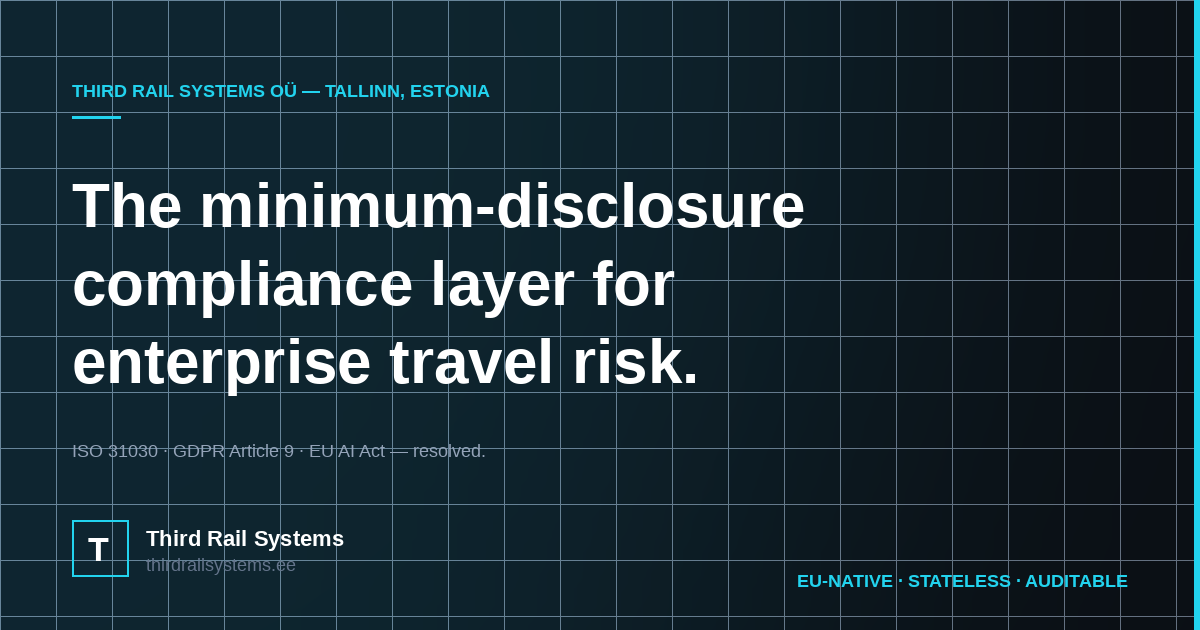
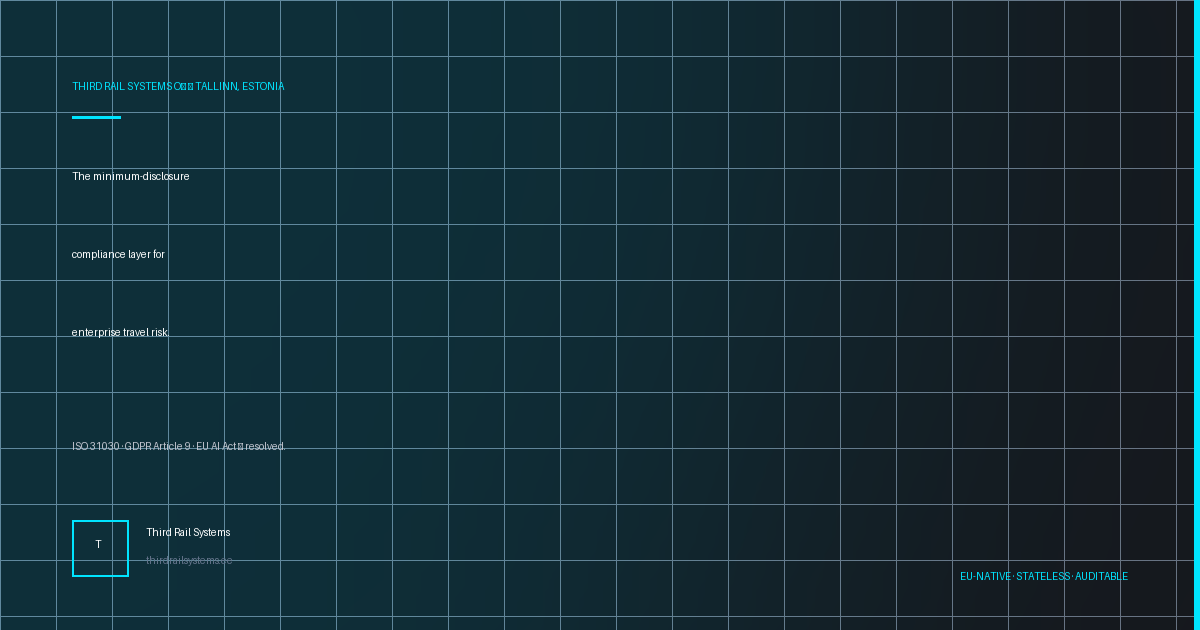
auto-commit for 17750206-c3cd-4aa1-8c43-81caec02e5cf

diff --git a/frontend/src/index.css b/frontend/src/index.css
@@ -4,7 +4,7 @@
 
 body {
     margin: 0;
-    background-color: #0b0f14;
+    background-color: #16181D;
     font-family:
         "Inter", -apple-system, BlinkMacSystemFont, "Segoe UI", "Roboto",
         "Helvetica Neue", Arial, sans-serif;
@@ -20,27 +20,29 @@ code {
 
 @layer base {
     :root {
-        /* Dark-mode first tokens (applied at root so shadcn inherits them) */
-        --background: 220 26% 6%;
+        /* Dark-mode first tokens (applied at root so shadcn inherits them).
+           Brand-guide aligned: Sovereign Slate #16181D background, Cyan Core
+           #00E5FF accent. */
+        --background: 225 14% 11%;
         --foreground: 210 20% 96%;
-        --card: 222 23% 9%;
+        --card: 222 17% 14%;
         --card-foreground: 210 20% 96%;
-        --popover: 222 23% 9%;
+        --popover: 222 17% 14%;
         --popover-foreground: 210 20% 96%;
-        --primary: 189 94% 55%;
+        --primary: 186 100% 50%;
         --primary-foreground: 220 40% 8%;
         --secondary: 217 19% 16%;
         --secondary-foreground: 210 20% 96%;
         --muted: 217 19% 14%;
         --muted-foreground: 215 16% 65%;
-        --accent: 189 94% 55%;
+        --accent: 186 100% 50%;
         --accent-foreground: 220 40% 8%;
         --destructive: 0 72% 51%;
         --destructive-foreground: 210 20% 98%;
         --border: 217 19% 18%;
         --input: 217 19% 18%;
-        --ring: 189 94% 55%;
-        --chart-1: 189 94% 55%;
+        --ring: 186 100% 50%;
+        --chart-1: 186 100% 50%;
         --chart-2: 173 58% 45%;
         --chart-3: 197 37% 40%;
         --chart-4: 43 74% 66%;

diff --git a/frontend/src/App.css b/frontend/src/App.css
@@ -1,7 +1,7 @@
 /* Base app wrapper */
 .App {
   min-height: 100vh;
-  background-color: #0b0f14;
+  background-color: #16181D;
   color: #e5e7eb;
   font-family: "Inter", ui-sans-serif, system-ui, -apple-system, BlinkMacSystemFont,
     "Segoe UI", Roboto, "Helvetica Neue", Arial, sans-serif;
@@ -12,7 +12,7 @@
 
 /* Selection */
 .App ::selection {
-  background-color: rgba(34, 211, 238, 0.25);
+  background-color: rgba(0, 229, 255, 0.25);
   color: #ecfeff;
 }
 
@@ -51,7 +51,6 @@
     linear-gradient(to bottom, rgba(148, 163, 184, 0.06) 1px, transparent 1px);
   background-size: 56px 56px;
 }
-
 /* Monospace accent */
 .mono {
   font-family: "JetBrains Mono", "Fira Code", ui-monospace, SFMono-Regular, Menlo,
@@ -62,13 +61,13 @@
 /* Soft inner glow used on primary buttons */
 .btn-glow {
   box-shadow:
-    0 0 0 1px rgba(34, 211, 238, 0.35) inset,
-    0 10px 30px -10px rgba(34, 211, 238, 0.35);
+    0 0 0 1px rgba(0, 229, 255, 0.35) inset,
+    0 10px 30px -10px rgba(0, 229, 255, 0.35);
 }
 .btn-glow:hover {
   box-shadow:
-    0 0 0 1px rgba(34, 211, 238, 0.55) inset,
-    0 14px 38px -10px rgba(34, 211, 238, 0.55);
+    0 0 0 1px rgba(0, 229, 255, 0.55) inset,
+    0 14px 38px -10px rgba(0, 229, 255, 0.55);
 }
 
 /* Smooth anchor offset for sticky nav */

diff --git a/frontend/tailwind.config.js b/frontend/tailwind.config.js
@@ -15,6 +15,14 @@ module.exports = {
   		colors: {
   			background: 'hsl(var(--background))',
   			foreground: 'hsl(var(--foreground))',
+  			slate: {
+  				'950': '#16181D'
+  			},
+  			cyan: {
+  				'300': '#5BEEFF',
+  				'400': '#00E5FF',
+  				'500': '#00E5FF'
+  			},
   			card: {
   				DEFAULT: 'hsl(var(--card))',
   				foreground: 'hsl(var(--card-foreground))'

diff --git a/backend/briefing.py b/backend/briefing.py
@@ -310,21 +310,21 @@ _PRINT_CSS = """
 @page { size: A4; margin: 0; }
 :root { color-scheme: dark; }
 * { box-sizing: border-box; }
-html, body { margin: 0; padding: 0; background: #0B0F14; color: #E2E8F0;
+html, body { margin: 0; padding: 0; background: #16181D; color: #E2E8F0;
   font-family: 'Inter', -apple-system, 'Segoe UI', sans-serif;
   -webkit-print-color-adjust: exact; print-color-adjust: exact; }
 .mono { font-family: 'JetBrains Mono', 'Menlo', monospace; letter-spacing: 0.02em; }
-.accent { color: #22D3EE; }
+.accent { color: #00E5FF; }
 .muted { color: #94A3B8; }
 
-.page { width: 210mm; min-height: 297mm; padding: 22mm 20mm; background: #0B0F14;
+.page { width: 210mm; min-height: 297mm; padding: 22mm 20mm; background: #16181D;
   page-break-after: always; position: relative; }
 .page:last-child { page-break-after: auto; }
 .page h2 { font-size: 22pt; color: #FFFFFF; margin: 18pt 0 8pt; letter-spacing: -0.01em; }
 .page p { font-size: 10.5pt; line-height: 1.65; color: #CBD5E1; margin: 6pt 0; }
 .page strong { color: #FFFFFF; font-weight: 600; }
 
-.section-num { font-family: 'JetBrains Mono', monospace; font-size: 10pt; color: #22D3EE;
+.section-num { font-family: 'JetBrains Mono', monospace; font-size: 10pt; color: #00E5FF;
   letter-spacing: 0.24em; text-transform: uppercase; margin-bottom: 4pt; }
 
 .running-header { position: absolute; top: 10mm; left: 20mm; right: 20mm;
@@ -345,15 +345,15 @@ html, body { margin: 0; padding: 0; background: #0B0F14; color: #E2E8F0;
   justify-content: space-between; }
 .cover-header { }
 .brand-pair { display: grid; grid-template-columns: 1fr 1px 1fr; gap: 16mm;
-  align-items: start; border: 1px solid #1E293B; background: #0F172A; padding: 12mm; border-radius: 6pt; }
+  align-items: start; border: 1px solid #1E293B; background: #1B1E25; padding: 12mm; border-radius: 6pt; }
 .brand { display: flex; flex-direction: column; gap: 4pt; align-items: flex-start; }
 .brand-divider { background: #1E293B; width: 1px; height: 100%; }
 .brand-label { font-family: 'JetBrains Mono', monospace; font-size: 7.5pt;
   letter-spacing: 0.22em; text-transform: uppercase; color: #64748B; margin-bottom: 4pt; }
 .brand-logo { max-width: 36mm; max-height: 14mm; object-fit: contain;
   background: transparent; margin-bottom: 4pt; }
-.brand-placeholder { width: 14mm; height: 14mm; border: 1px solid #22D3EE;
-  background: rgba(34,211,238,0.08); color: #22D3EE;
+.brand-placeholder { width: 14mm; height: 14mm; border: 1px solid #00E5FF;
+  background: rgba(0,229,255,0.08); color: #00E5FF;
   display: flex; align-items: center; justify-content: center;
   font-weight: 700; font-size: 12pt; margin-bottom: 4pt; border-radius: 4pt; }
 .brand-name { color: #FFFFFF; font-weight: 600; font-size: 11pt; }
@@ -361,8 +361,8 @@ html, body { margin: 0; padding: 0; background: #0B0F14; color: #E2E8F0;
 
 .cover-body { margin-top: 18mm; }
 .eyebrow { font-family: 'JetBrains Mono', monospace; font-size: 9pt;
-  letter-spacing: 0.22em; text-transform: uppercase; color: #22D3EE;
-  border-left: 2px solid #22D3EE; padding-left: 8pt; }
+  letter-spacing: 0.22em; text-transform: uppercase; color: #00E5FF;
+  border-left: 2px solid #00E5FF; padding-left: 8pt; }
 .cover-title { color: #FFFFFF; font-size: 34pt; line-height: 1.08; letter-spacing: -0.02em;
   margin: 8mm 0 6mm; font-weight: 600; }
 .cover-lede { color: #94A3B8; font-size: 12pt; max-width: 140mm; line-height: 1.55; }
@@ -374,17 +374,17 @@ html, body { margin: 0; padding: 0; background: #0B0F14; color: #E2E8F0;
   letter-spacing: 0.22em; text-transform: uppercase; color: #64748B; }
 
 /* Callout */
-.callout { border: 1px solid #1E293B; border-left: 3px solid #22D3EE;
-  background: #0F172A; padding: 10pt 12pt; margin: 10pt 0; border-radius: 2pt; }
+.callout { border: 1px solid #1E293B; border-left: 3px solid #00E5FF;
+  background: #1B1E25; padding: 10pt 12pt; margin: 10pt 0; border-radius: 2pt; }
 .callout-label { font-family: 'JetBrains Mono', monospace; font-size: 8pt;
-  letter-spacing: 0.22em; text-transform: uppercase; color: #22D3EE; display: block; }
+  letter-spacing: 0.22em; text-transform: uppercase; color: #00E5FF; display: block; }
 .callout p { margin-top: 4pt; color: #E2E8F0; }
 
 /* Feature grid */
 .grid-3 { display: grid; grid-template-columns: repeat(3, 1fr); gap: 4mm; margin: 10pt 0; }
-.feature { border: 1px solid #1E293B; background: #0F172A; padding: 10pt; border-radius: 2pt; }
+.feature { border: 1px solid #1E293B; background: #1B1E25; padding: 10pt; border-radius: 2pt; }
 .feature-num { font-family: 'JetBrains Mono', monospace; font-size: 8pt;
-  letter-spacing: 0.22em; text-transform: uppercase; color: #22D3EE; }
+  letter-spacing: 0.22em; text-transform: uppercase; color: #00E5FF; }
 .feature-title { color: #FFFFFF; font-weight: 600; font-size: 11pt; margin-top: 4pt; }
 .feature p { font-size: 9.5pt; line-height: 1.55; color: #94A3B8; margin-top: 6pt; }
 
@@ -393,13 +393,13 @@ html, body { margin: 0; padding: 0; background: #0B0F14; color: #E2E8F0;
   border-top: 1px solid #1E293B; padding: 8pt 0; align-items: start; }
 .gov-row:first-of-type { border-top: none; }
 .gov-tag { font-family: 'JetBrains Mono', monospace; font-size: 9pt;
-  letter-spacing: 0.22em; text-transform: uppercase; color: #22D3EE; padding-top: 2pt; }
+  letter-spacing: 0.22em; text-transform: uppercase; color: #00E5FF; padding-top: 2pt; }
 
 /* CTA */
-.cta { margin-top: 14pt; border: 1px solid #22D3EE; background: rgba(34,211,238,0.06);
+.cta { margin-top: 14pt; border: 1px solid #00E5FF; background: rgba(0,229,255,0.06);
   padding: 10pt 12pt; border-radius: 2pt; }
 .cta-label { font-family: 'JetBrains Mono', monospace; font-size: 8pt;
-  letter-spacing: 0.22em; text-transform: uppercase; color: #22D3EE; }
+  letter-spacing: 0.22em; text-transform: uppercase; color: #00E5FF; }
 .cta-body { color: #FFFFFF; font-size: 11pt; margin-top: 4pt; }
 """
 